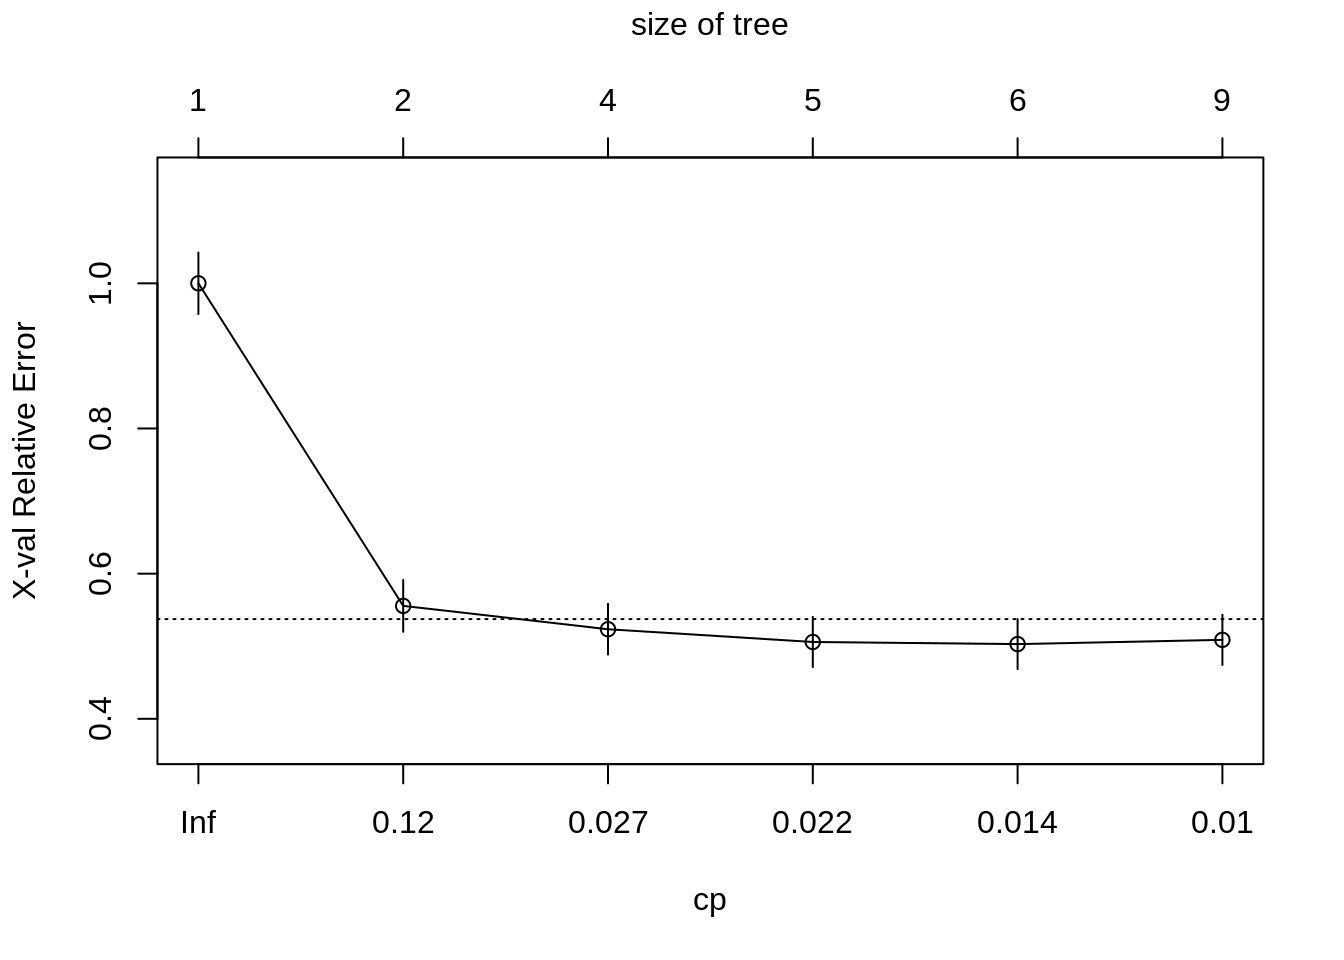
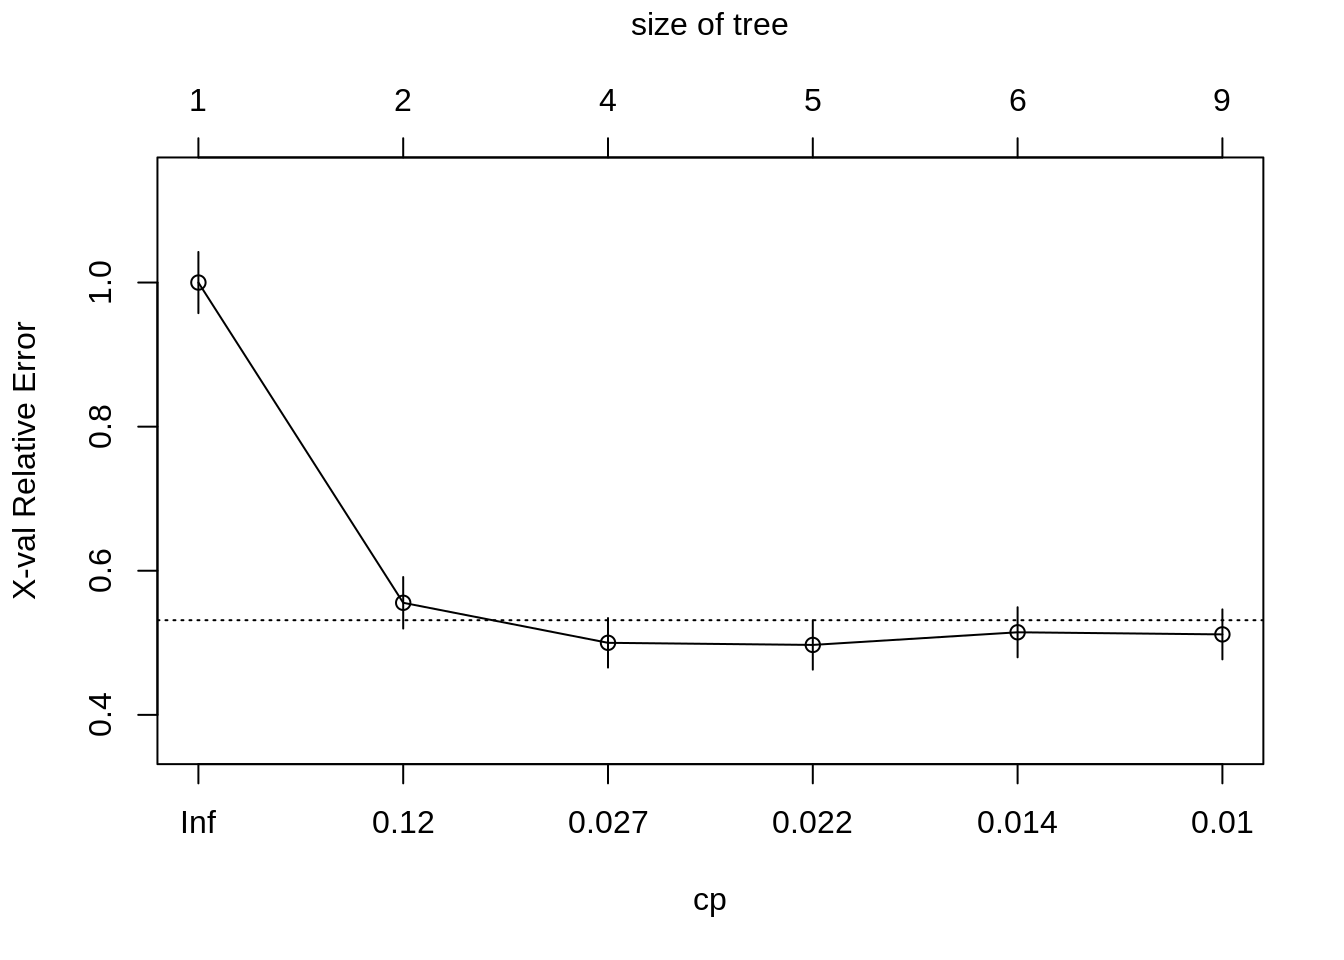
Deploy lebebr01/stat_thinking to github.com/lebebr01/stat_thinking.git:master

diff --git a/docs/classification.html b/docs/classification.html
@@ -324,10 +324,10 @@ titanic &lt;-<span class="st"> </span><span class="kw">bind_rows</span>(titanic_
 ##         CP nsplit rel error  xerror     xstd
 ## 1 0.444444      0   1.00000 1.00000 0.042446
 ## 2 0.030702      1   0.55556 0.55556 0.035750
-## 3 0.023392      3   0.49415 0.52339 0.034970
-## 4 0.020468      4   0.47076 0.50585 0.034524
-## 5 0.010234      5   0.45029 0.50292 0.034448
-## 6 0.010000      8   0.41813 0.50877 0.034599</code></pre>
+## 3 0.023392      3   0.49415 0.50000 0.034372
+## 4 0.020468      4   0.47076 0.49708 0.034295
+## 5 0.010234      5   0.45029 0.51462 0.034749
+## 6 0.010000      8   0.41813 0.51170 0.034675</code></pre>
 <div class="sourceCode"><pre class="sourceCode r"><code class="sourceCode r"><span class="kw">plotcp</span>(class_tree)</code></pre></div>
 <p><img src="05-classification_files/figure-html/unnamed-chunk-6-1.png" width="672" /></p>
 <div class="sourceCode"><pre class="sourceCode r"><code class="sourceCode r">prune_class_tree &lt;-<span class="st"> </span><span class="kw">prune</span>(class_tree, <span class="dt">cp =</span> .<span class="dv">02</span>)

diff --git a/docs/05-classification.md b/docs/05-classification.md
@@ -249,10 +249,10 @@ printcp(class_tree)
 ##         CP nsplit rel error  xerror     xstd
 ## 1 0.444444      0   1.00000 1.00000 0.042446
 ## 2 0.030702      1   0.55556 0.55556 0.035750
-## 3 0.023392      3   0.49415 0.52339 0.034970
-## 4 0.020468      4   0.47076 0.50585 0.034524
-## 5 0.010234      5   0.45029 0.50292 0.034448
-## 6 0.010000      8   0.41813 0.50877 0.034599
+## 3 0.023392      3   0.49415 0.50000 0.034372
+## 4 0.020468      4   0.47076 0.49708 0.034295
+## 5 0.010234      5   0.45029 0.51462 0.034749
+## 6 0.010000      8   0.41813 0.51170 0.034675
 ```
 
 ```r
